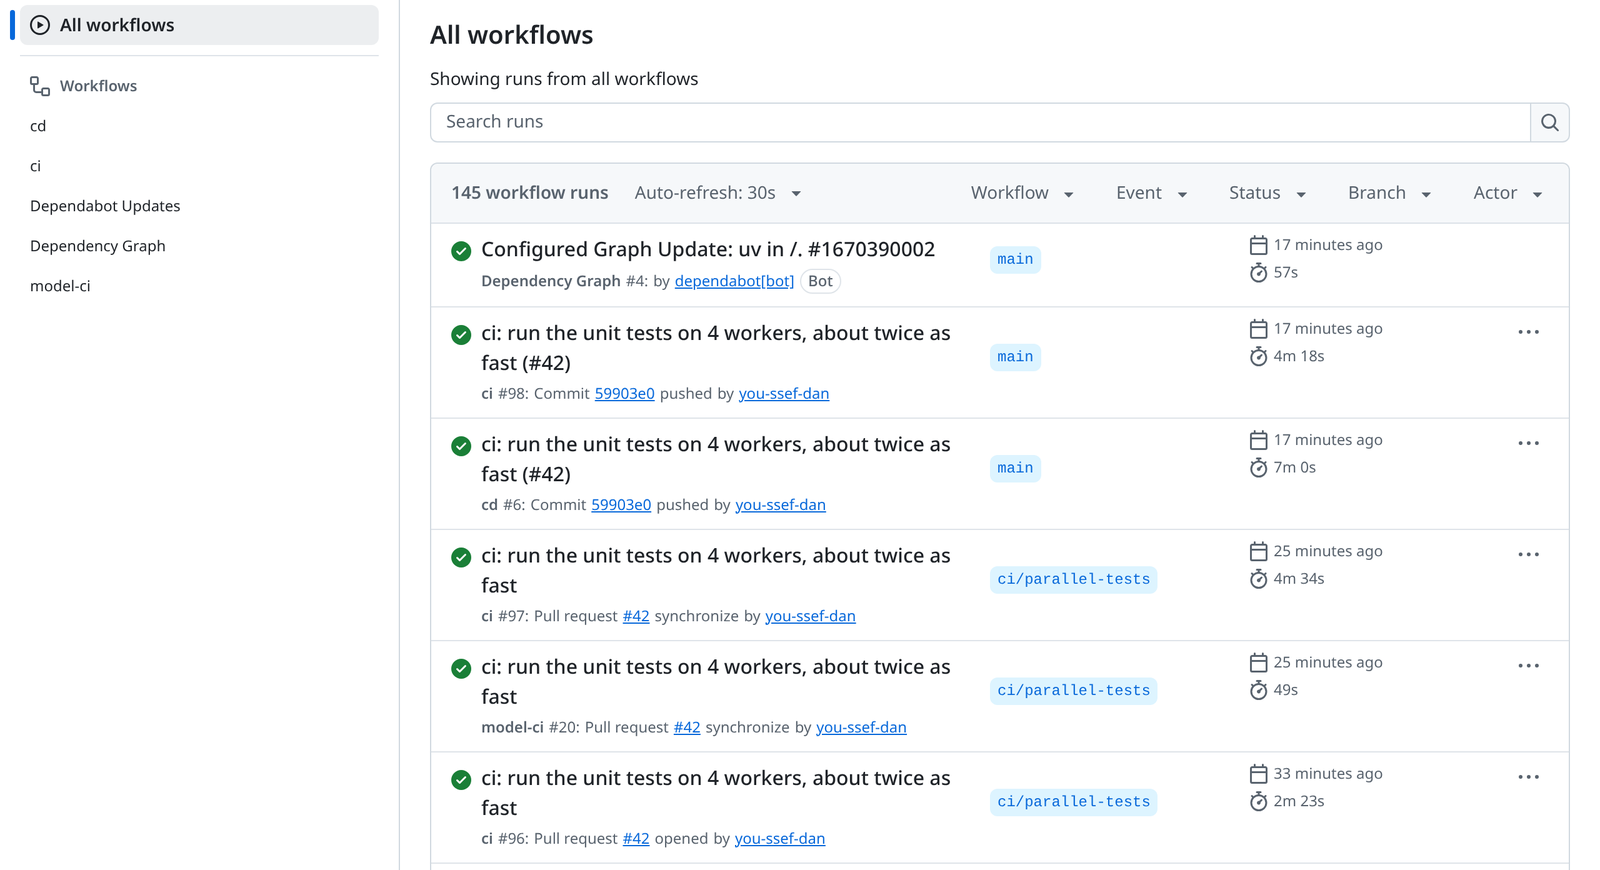
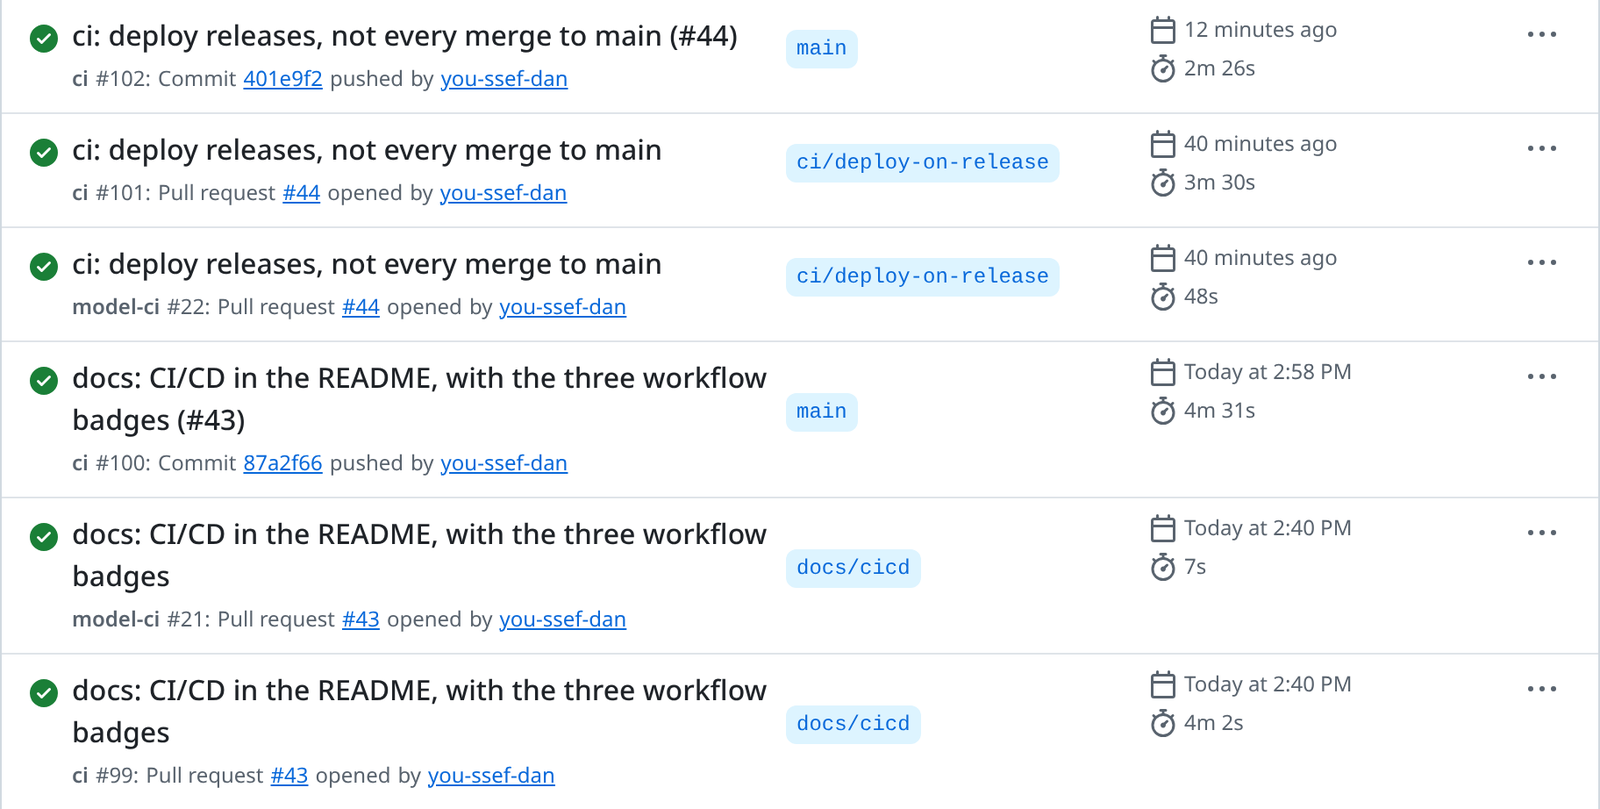
docs: the first release in the README (#45)
The cd screenshot and timings now show release v0.2.0 (image 42 s, deploy
51 s, live build 0.2.0), and the Actions screenshot shows two merges that
ran ci but deployed nothing. A release badge; the Render source row says
releases deploy their own tag; preprocessing is shared with serving now,
not "later".

diff --git a/README.md b/README.md
@@ -5,6 +5,7 @@
 [![cd](https://github.com/you-ssef-dan/anomaly-inspector/actions/workflows/cd.yml/badge.svg)](https://github.com/you-ssef-dan/anomaly-inspector/actions/workflows/cd.yml)
 ![python](https://img.shields.io/badge/python-3.12-blue)
 ![license](https://img.shields.io/badge/code-Apache--2.0-green)
+[![release](https://img.shields.io/github/v/release/you-ssef-dan/anomaly-inspector)](https://github.com/you-ssef-dan/anomaly-inspector/releases)
 
 **Visual inspection for factory parts: it learns what a good part looks like, flags the ones that are
 not, and draws a heatmap showing where the defect is.** Built end to end on a CPU laptop, from raw
@@ -317,7 +318,7 @@ The same image runs on [Render](https://render.com)'s free plan:
 
 | Render setting | Value | Why |
 | --- | --- | --- |
-| Source | existing image `ghcr.io/you-ssef-dan/anomaly-inspector-api:0.1.0` | the image tested above, pinned to a tag |
+| Source | existing image `ghcr.io/you-ssef-dan/anomaly-inspector-api:0.1.0` | the image tested above, pinned to a tag; each release now deploys its own tag through the deploy hook |
 | Instance | Free: 0.1 CPU, 512 MB of RAM, Frankfurt | no cost |
 | `PORT` | `8000` | where the app listens (Render expects 10000 by default) |
 | `API_THREADS` | `1` | a second ONNX thread does not help on 0.1 CPU |
@@ -397,7 +398,7 @@ flowchart LR
 | [`model-ci`](.github/workflows/model-ci.yml), job `pipeline` | every pull request | re-runs the DVC stages the change affects, comments the metrics diff, runs the quality gate | seconds without an ML change, about 1 min when no model retrains, 16 min when all of them do |
 | [`cd`](.github/workflows/cd.yml) | a published release (`v*`), or by hand on one | builds with the real model, tests and pushes the image; after approval, deploys it and tests the live URL | about 2 min, plus the approval |
 
-![One change in the Actions tab: ci and model-ci on the pull request, then ci and cd on main](reports/figures/cicd_actions.png)
+![Two changes in the Actions tab: each pull request ran ci and model-ci, each merge ran ci on main, and neither deployed](reports/figures/cicd_actions.png)
 
 ### On every pull request
 
@@ -511,10 +512,11 @@ That starts [`cd`](.github/workflows/cd.yml), with two jobs:
    hook with that image, polls `/health/live` until it reports the new build (Render keeps the old
    version answering until the new one is ready), and runs the basic smoke test on the live URL.
 
-On a deploy before releases existed (one per merge then, so the build was a commit), `image` took
-56 s and `deploy` 53 s, 40 s of it waiting for Render.
+The first release, [v0.2.0](https://github.com/you-ssef-dan/anomaly-inspector/releases/tag/v0.2.0),
+went live this way: `image` took 42 s and `deploy` 51 s, 40 s of it waiting for Render, and
+`/health/live` now answers `{"status":"live","build":"0.2.0"}`.
 
-![A cd run: the image job, then the deploy job after approval for production](reports/figures/cicd_cd_run.png)
+![The cd run of release v0.2.0: the image job, then the deploy job after approval for production](reports/figures/cicd_cd_run.png)
 
 - **Approving:** *Actions* → *cd* → the waiting run → *Review deployments* → tick *production* →
   *Approve and deploy*. GitHub also notifies the reviewer.
@@ -701,7 +703,7 @@ explains where to get it, how it is verified and how it is split.
 
 ```
 src/anomaly_inspector/
-  preprocessing.py   one image function shared by training and (later) serving; numpy + Pillow only
+  preprocessing.py   one image function shared by training and serving; numpy + Pillow only
   config.py          typed settings read from params.yaml
   tracking.py        what every MLflow run records (code, data and hardware tags, params)
   registry.py        champion and challenger: the promotion rules
